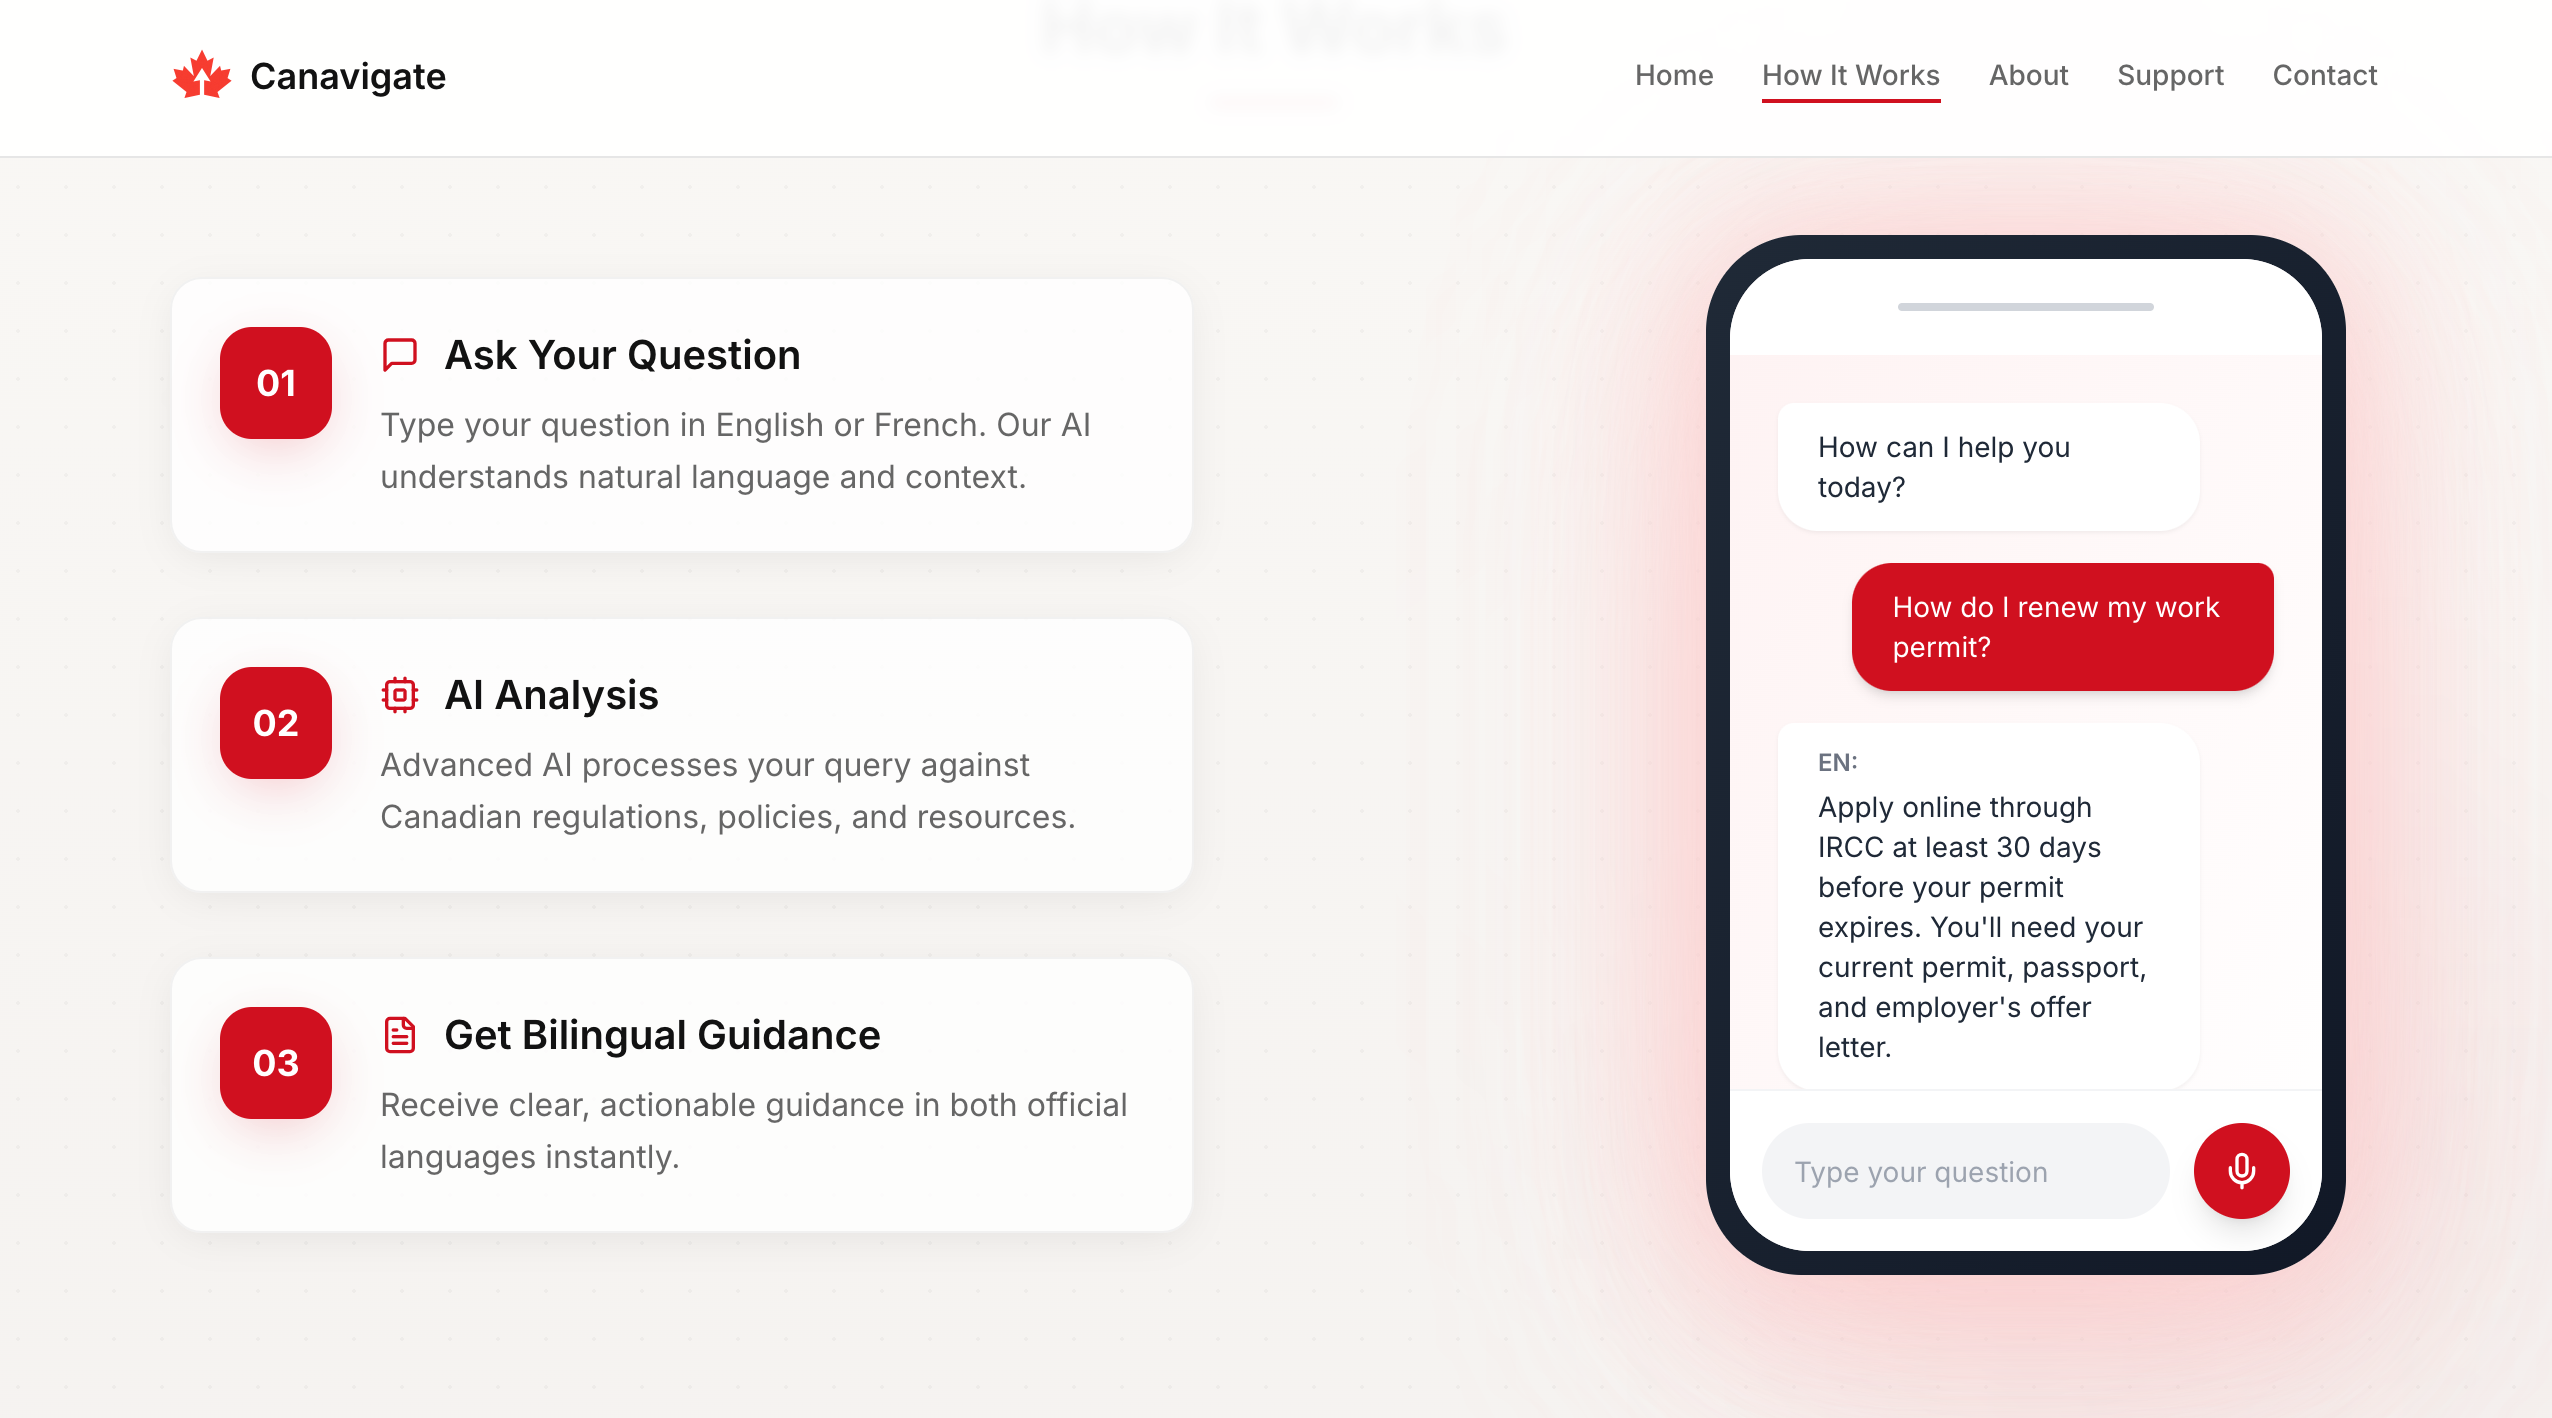
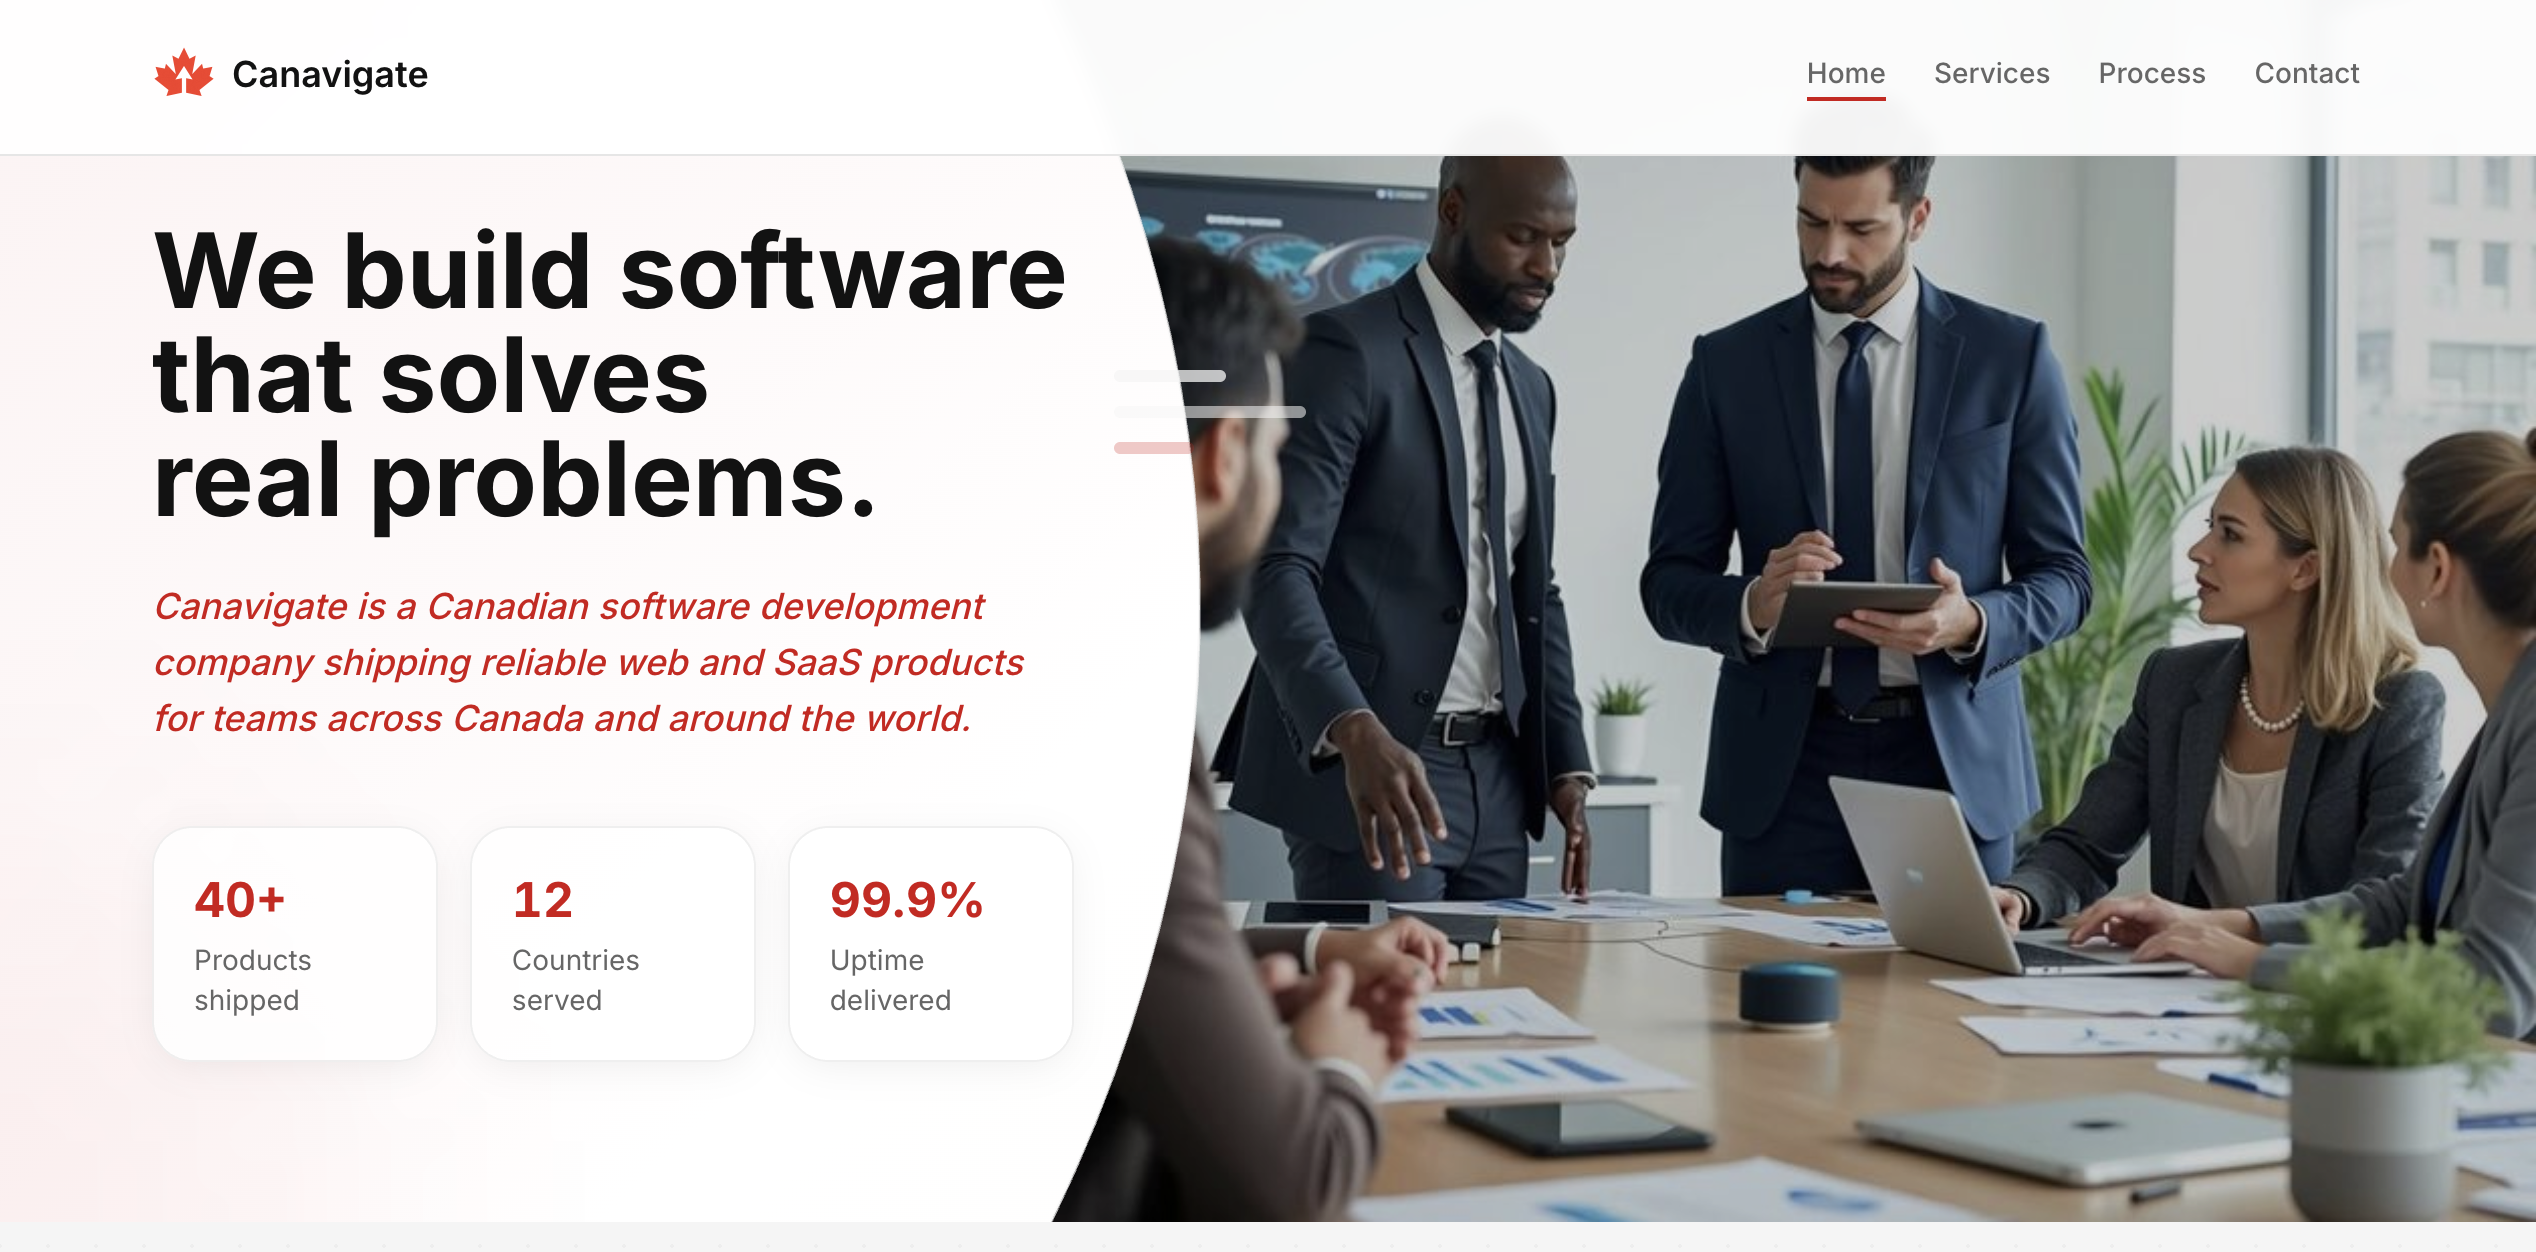
updating project section

diff --git a/src/index.html b/src/index.html
@@ -209,9 +209,8 @@
               <h3 class="project-wrapper__text-title">Canavigate</h3>
               <div>
                 <p class="mb-4">
-                  Canada's bilingual, AI-powered digital integration platform.
-                  Canavigate turns uncertainty into clarity with the ease of a conversation, helping newcomers navigate
-                  systems with confidence.
+                  A Canadian IT and software development company that builds reliable web and SaaS products for teams,
+                  with software solutions delivered both locally and globally.
                 </p>
                 <p>
                   This app was designed using React.js and Three.js.